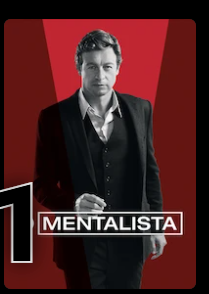
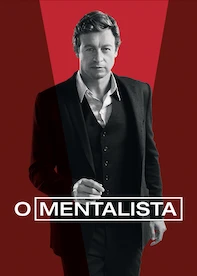
Add files via upload

diff --git a/css/login.css b/css/login.css
@@ -6,6 +6,7 @@
 
 :root {
     --vermelho: #e20712;
+    --branco-claro: #f5f5f5cc;
     --branco: #f5f5f5;
     --cinza: #5f5e5e;
     --preto: #000000;
@@ -194,12 +195,13 @@ form p a:hover {
 
 .conteudo-netflix {
     width: 100%;
-    background-color: var(--preto);
-    padding: 40px 60px;
+    background: var(--preto);
+    padding: 50px 80px;
     border-top: 5px solid #8b1a35;
     border-radius: 50% 50% 0 0 / 60px 60px 0 0;
     margin-top: -30px;
     position: relative;
+    z-index: 1;
 }
 
 .aviso-assinatura {
@@ -207,7 +209,7 @@ form p a:hover {
     align-items: center;
     gap: 15px;
     width: 100%;
-    max-width: 1100px;
+    max-width: 1200px;
     margin: 0 auto 40px;
     background: linear-gradient(100deg, #29152f, #171b43);
     padding: 12px 20px;
@@ -246,7 +248,7 @@ form p a:hover {
 
 .em-alta {
     width: 100%;
-    max-width: 1100px;
+    max-width: 1200px;
     margin: 0 auto 50px;
 }
 
@@ -266,6 +268,10 @@ form p a:hover {
 
 .filme {
     position: relative;
+    width: 210px;
+    height: 300px;
+     flex-shrink: 0;
+    overflow: visible;
 }
 
 .filme img {
@@ -276,10 +282,14 @@ form p a:hover {
 
 .filme span {
     position: absolute;
-    bottom: 0;
-    left: 5px;
-    font-size: 70px;
+    bottom: 45px;
+    left: -22px;
+    font-size: 100px;
     font-weight: bold;
+    color: var(--preto);
+    -webkit-text-stroke: 2px var(--branco-claro);
+    line-height: 1;
+    z-index: 2;
 }
 
 .filme:hover {
@@ -287,8 +297,43 @@ form p a:hover {
     transition: 0.3s;
 }
 
+.motivos {
+    width: 100%;
+    max-width: 1100px;
+    margin: 0 auto 50px;
+}
+
 .motivos h2 {
-    font-size: 30px;
     text-align: left;
+    font-size: 30px;
     margin-bottom: 25px;
+}
+
+.cards-motivos {
+    display: flex;
+    justify-content: center;
+    align-items: stretch;
+    gap: 20px;
+    width: 100%;
+    flex-wrap: wrap;
+}
+
+.cards-motivos article {
+    flex: 1 1 240px;
+    min-height: 250px;
+    padding: 30px;
+    background: linear-gradient(135deg, #1b2140, #30152f);
+    border-radius: 15px;
+}
+
+.cards-motivos article h3 {
+    font-size: 20px;
+    text-align: left;
+    margin-bottom: 20px;
+}
+
+.cards-motivos article p {
+    font-size: 13px;
+    line-height: 1.5;
+    color: var(--branco-claro);
 }

diff --git a/pages/login.html b/pages/login.html
@@ -70,23 +70,28 @@
                 <div class="filmes">
 
                     <article class="filme">
+                        <span>1</span>
                         <img src="../img/foto36.jpg" alt="Filme 1">
                     </article>
 
                     <article class="filme">
+                        <span>2</span>
                         <img src="../img/foto37.jpg" alt="Filme 2">
                     </article>
 
                     <article class="filme">
+                        <span>3</span>
                         <img src="../img/foto38.jpg" alt="Filme 3">
                     </article>
 
                     <article class="filme">
+                        <span>4</span>
                         <img src="../img/foto39.jpg" alt="Filme 4">
                     </article>
 
                     <article class="filme">
-                        <img src="../img/foto40.png" alt="Filme 5">
+                        <span>5</span>
+                        <img src="../img/foto40.jpg" alt="Filme 5">
                     </article>
 
                 </div>
@@ -133,6 +138,23 @@
                 </div>
 
             </section>
+
+            <section class="perguntas">
+
+               <h2>Perguntas frequentes</h2>
+
+
+               <div class="lista-perguntas">
+                 <details>
+
+                    <sumary>O que é a Netflix?</sumary>
+                    <p>
+                        A Netflix é um serviço de streaming que oferece uma ampla variedade de séries, filmes e documentários premiados em milhares de aparelhos conectados à internet.
+
+                       Você pode assistir a quantos filmes e séries quiser, quando e onde quiser – tudo por um preço mensal acessível. Aqui você sempre encontra novidades. A cada semana, adicionamos novas séries e filmes.
+                    </p>
+                 </details>
+               </div>
 
         </section>
 
